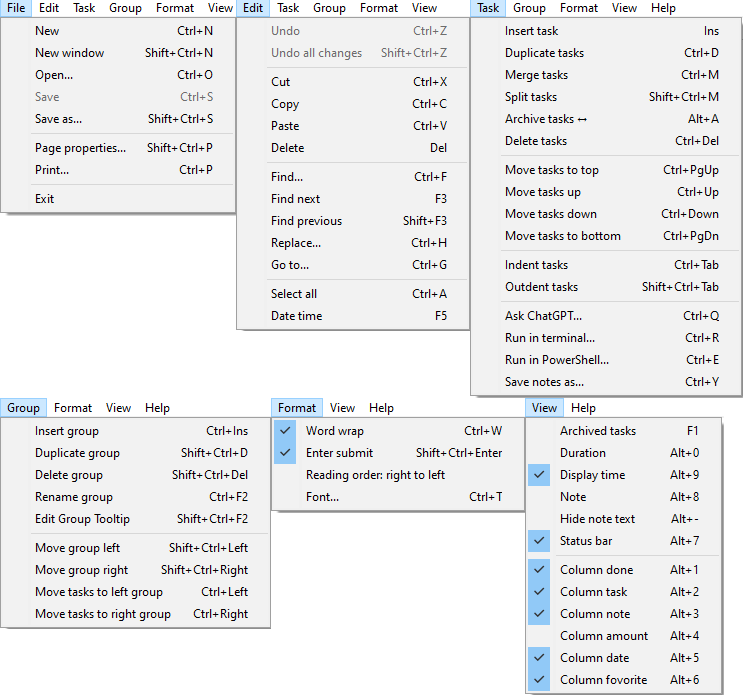
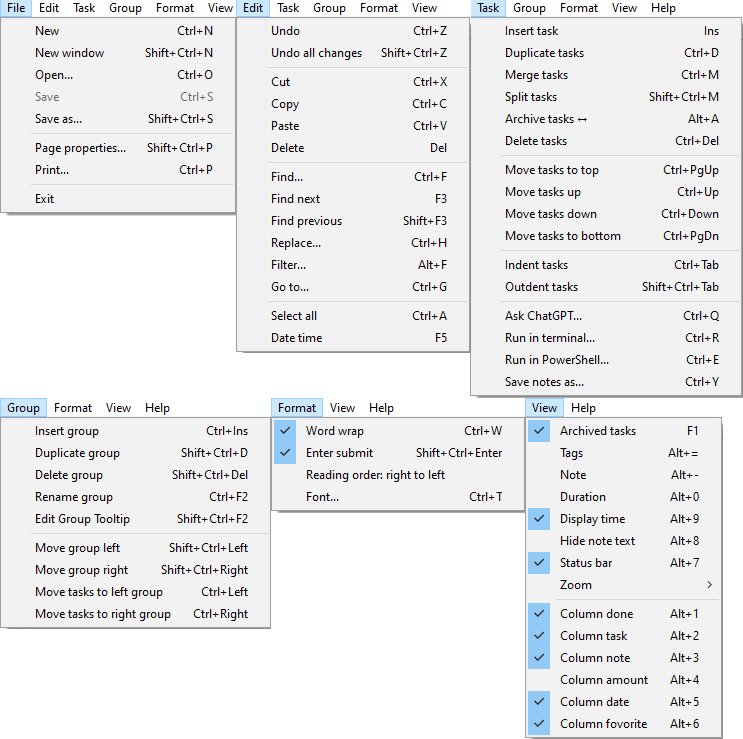
Update README.md for version 1.1.0

Changed region(s): [[0.0, 0.0, 1.0, 0.9971], [0.0, 0.0, 0.6191, 0.4835]]

diff --git a/README.md b/README.md
@@ -34,6 +34,10 @@ It is designed to help you quickly organize a large number of small routine task
 ## Features:
 - **Numbering** — Tasks are numbered automatically based on their order of appearance in the file
 - **Multiline** — Tasks and notes with an option to submit or insert a line break when pressing Enter
+- **Tags** — task tag support with bulk tag editing, tag choice from existing items, auto or custom tag color, sorting, and optional tag suffixes
+- **Filtering** — filtering tasks across all fields and groups using an expression, with highlighting of matched items
+- **Find & Replace** — search and replace text within tasks and notes using a dialogs, with options for case sensitivity and scope selection
+- **Zoom** — zooming of tasks and notes with adjustable zoom via mouse, keyboard, menu, or status bar
 - **Move tasks** — single or multiple, within or between groups; task priority is set simply by its position in the list
 - **Archive tasks** — cross out archived items, which can be hidden or shown as needed
 - **Grouping** — each group on its own page, with full group management
@@ -60,7 +64,7 @@ Suitable for note-taking with an optional general note field at the bottom of th
 ![sample3](samples/sample3.png)
 
 ### Personal Information
-Suitable for storing personal information in encrypted files, with secure access and optional grouping for better organization.
+Suitable for storing personal information in encrypted files, with secure access and optional grouping for better organization. Highlights duplicate data.
 
 ![sample5](samples/sample4.png)
 
@@ -85,7 +89,8 @@ View menu settings are saved individually based on filename.
 
 ### Summary
 
-The status bar provides a concise, real-time overview of the current task list. These values are dynamically calculated based on either the full list of the current group or the currently selected tasks. It displays:
+The status bar provides a concise, real-time overview of the current task list. These values are dynamically calculated based on either the full list of the current group or the currently selected tasks. Settings are configured through the context menu on the status bar. It displays:
+- **Zoom Precentage** allowing you to enlarge or reduce the view
 - **Text encoding** (e.g., UTF-8) and **line ending** style (e.g., CRLF)  
 - **Completed tasks / Total tasks**  
 - **Total amount spent / Total amount for all tasks** — useful for shopping lists or financial tracking  
